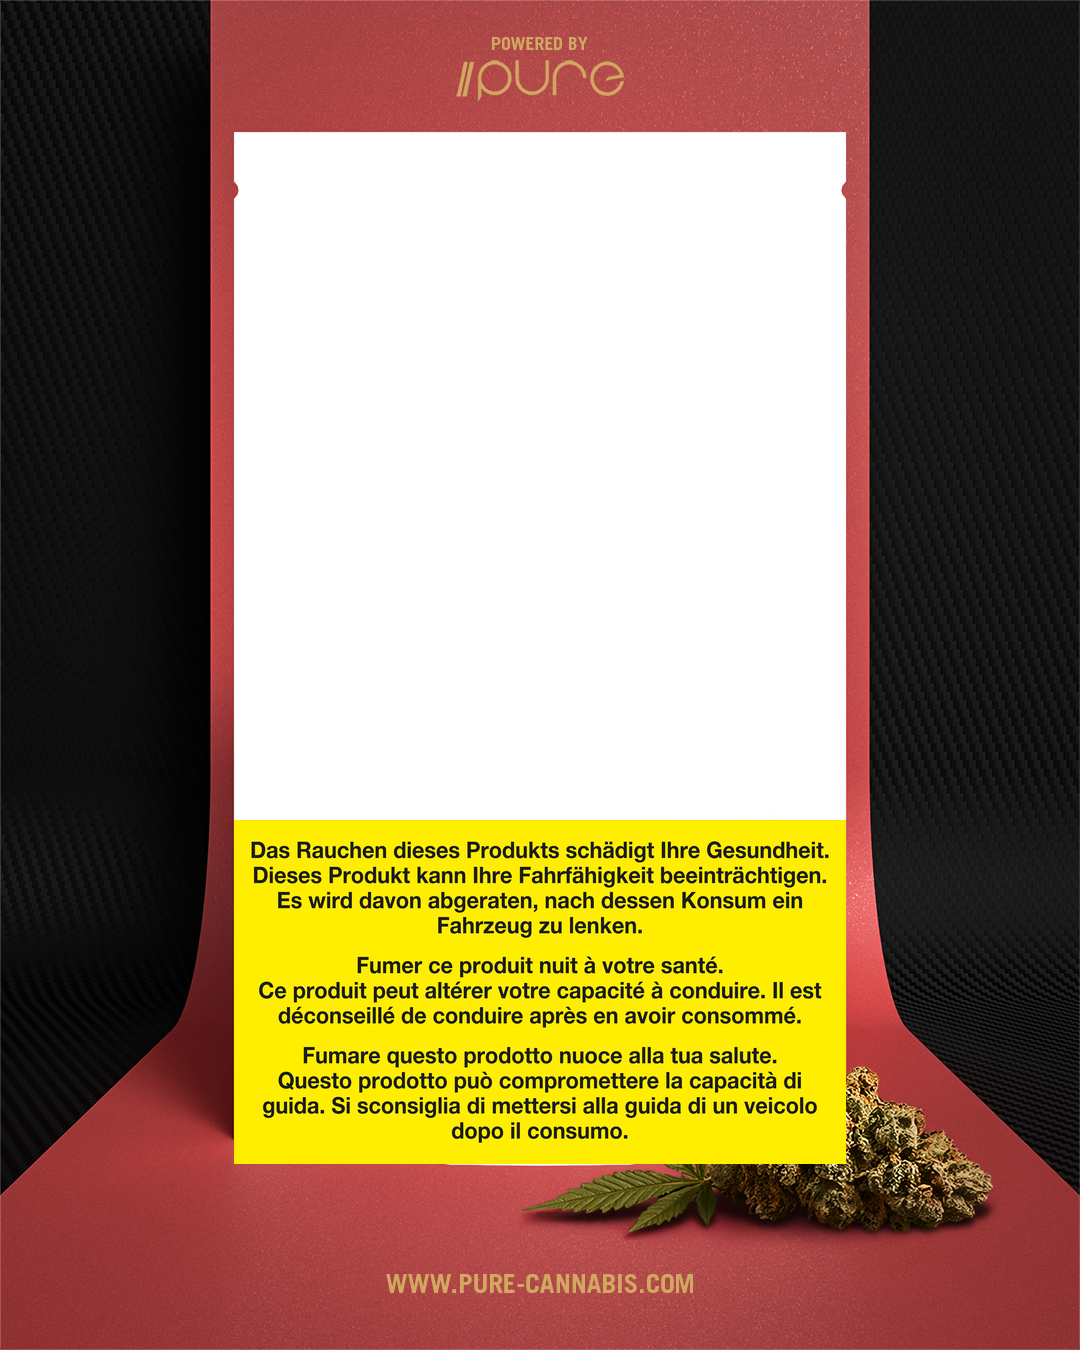
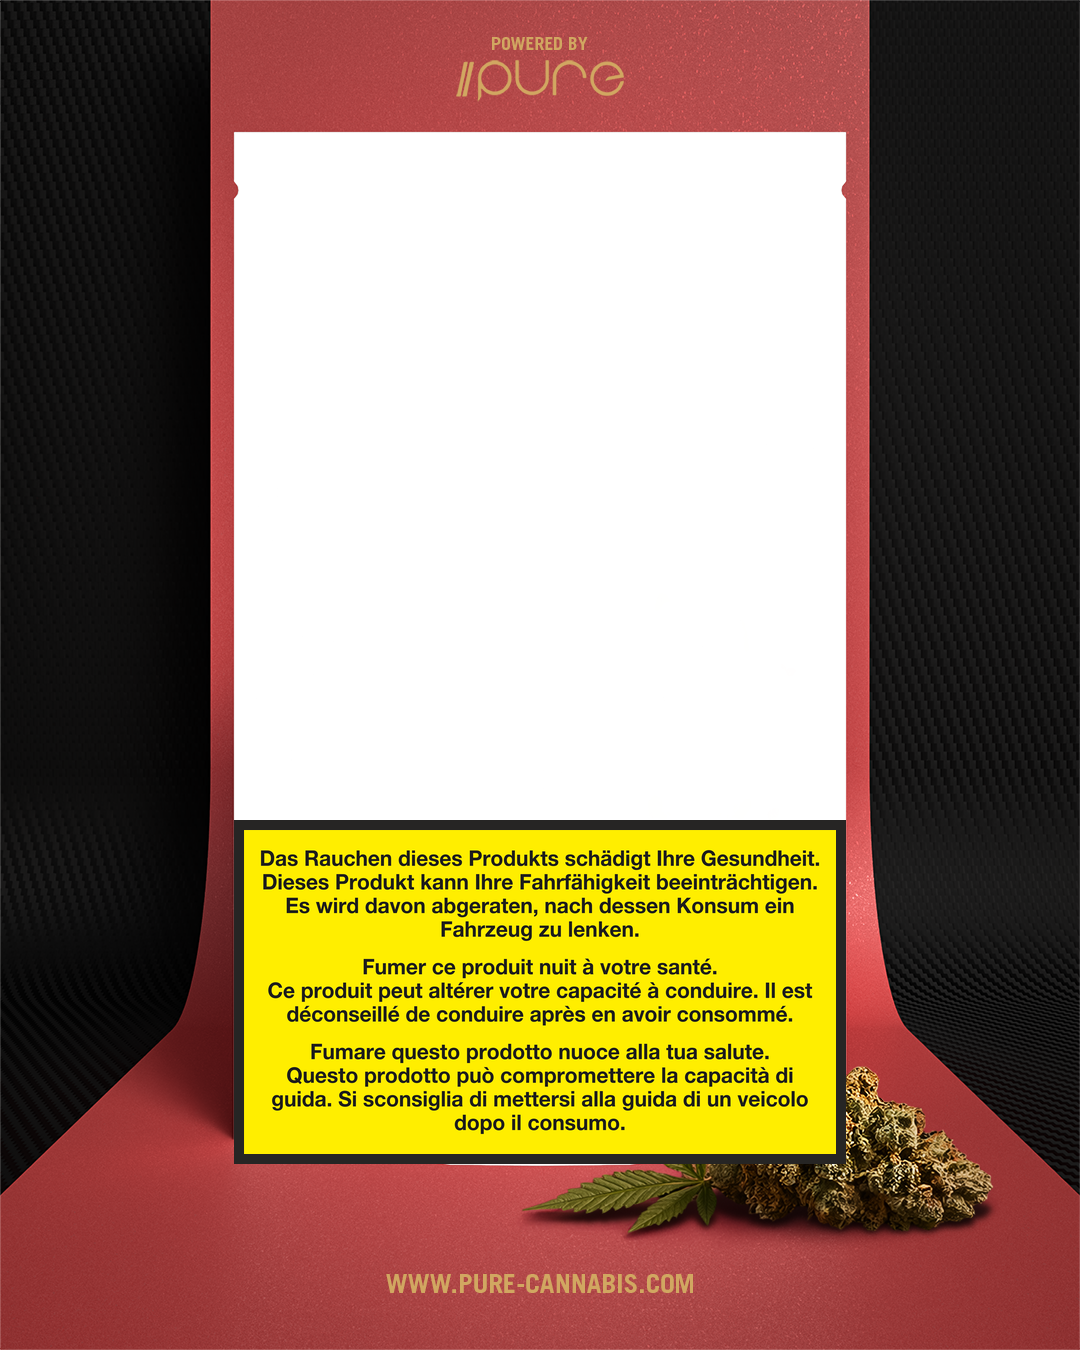
composite v8: dark frame around warning + close top white gap
User reported two issues with v7:
- the warning has no dark frame the way the pouche reference shows
  (~10px grey/black border around the yellow)
- there is a thin white strip at the top of the AI between the
  pure logo and the motif

Fixes:
- build_assets.py: resize the yellow content slightly smaller and
  wrap it in a 10px dark-grey frame (38, 37, 36) sampled directly
  from the Pouche reference's warning border
- composite.py: SLOT_Y nudged from PAPER_Y+3 to PAPER_Y-2 so the KI
  overshoots the natural paper edge by 2px and no white seam survives

Changed region(s): [[0.2139, 0.5911, 0.7944, 0.8711]]

diff --git a/scripts/build_assets.py b/scripts/build_assets.py
@@ -38,11 +38,20 @@ _WARN_CONTENT_BBOX = (506, 506, 10262, 5701)
 
 
 def build_warning() -> Image.Image:
-    """Crop the source warning to its yellow content area and resize to the
-    final 612×344 slot. Returned as RGBA Image; also saved to assets/warning.png."""
+    """Crop the yellow content from the source warning, resize it slightly
+    smaller than the final slot, then wrap it in a dark frame matching the
+    pouche reference design.
+
+    Final asset is 612×344 with a 10px dark border around 592×324 of yellow."""
+    border = 10
+    dark_frame_color = (38, 37, 36, 255)  # sampled from Pouche reference at y=1300
+
     src = Image.open(SRC_WARNING_PNG).convert("RGBA")
     cropped = src.crop(_WARN_CONTENT_BBOX)
-    warn = cropped.resize((WARN_W, WARN_H), Image.LANCZOS)
+    inner = cropped.resize((WARN_W - 2 * border, WARN_H - 2 * border), Image.LANCZOS)
+
+    warn = Image.new("RGBA", (WARN_W, WARN_H), dark_frame_color)
+    warn.paste(inner, (border, border))
     warn.save(ASSETS / "warning.png", format="PNG", optimize=True)
     return warn
 

diff --git a/lib/composite.py b/lib/composite.py
@@ -13,9 +13,10 @@ TEMPLATE_W, TEMPLATE_H = 1080, 1350
 PAPER_X, PAPER_Y = 234, 132
 PAPER_W, PAPER_H = 612, 1032
 
-# KI fills only the upper two-thirds; warning lives below.
-SLOT_X, SLOT_Y = PAPER_X, PAPER_Y + 3   # 3px nudge keeps the natural fold detail
-SLOT_W, SLOT_H = PAPER_W, 685
+# KI fills only the upper two-thirds; warning lives below. SLOT_Y overshoots
+# the paper top by 2px on purpose so no white strip survives at the seam.
+SLOT_X, SLOT_Y = PAPER_X, PAPER_Y - 2
+SLOT_W, SLOT_H = PAPER_W, 822 - (PAPER_Y - 2)  # ends just before the warning
 WARN_X, WARN_Y = 234, 820
 WARN_W, WARN_H = 612, 344
 DESIGN_BBOX = (SLOT_X, SLOT_Y, SLOT_X + SLOT_W, SLOT_Y + SLOT_H)
